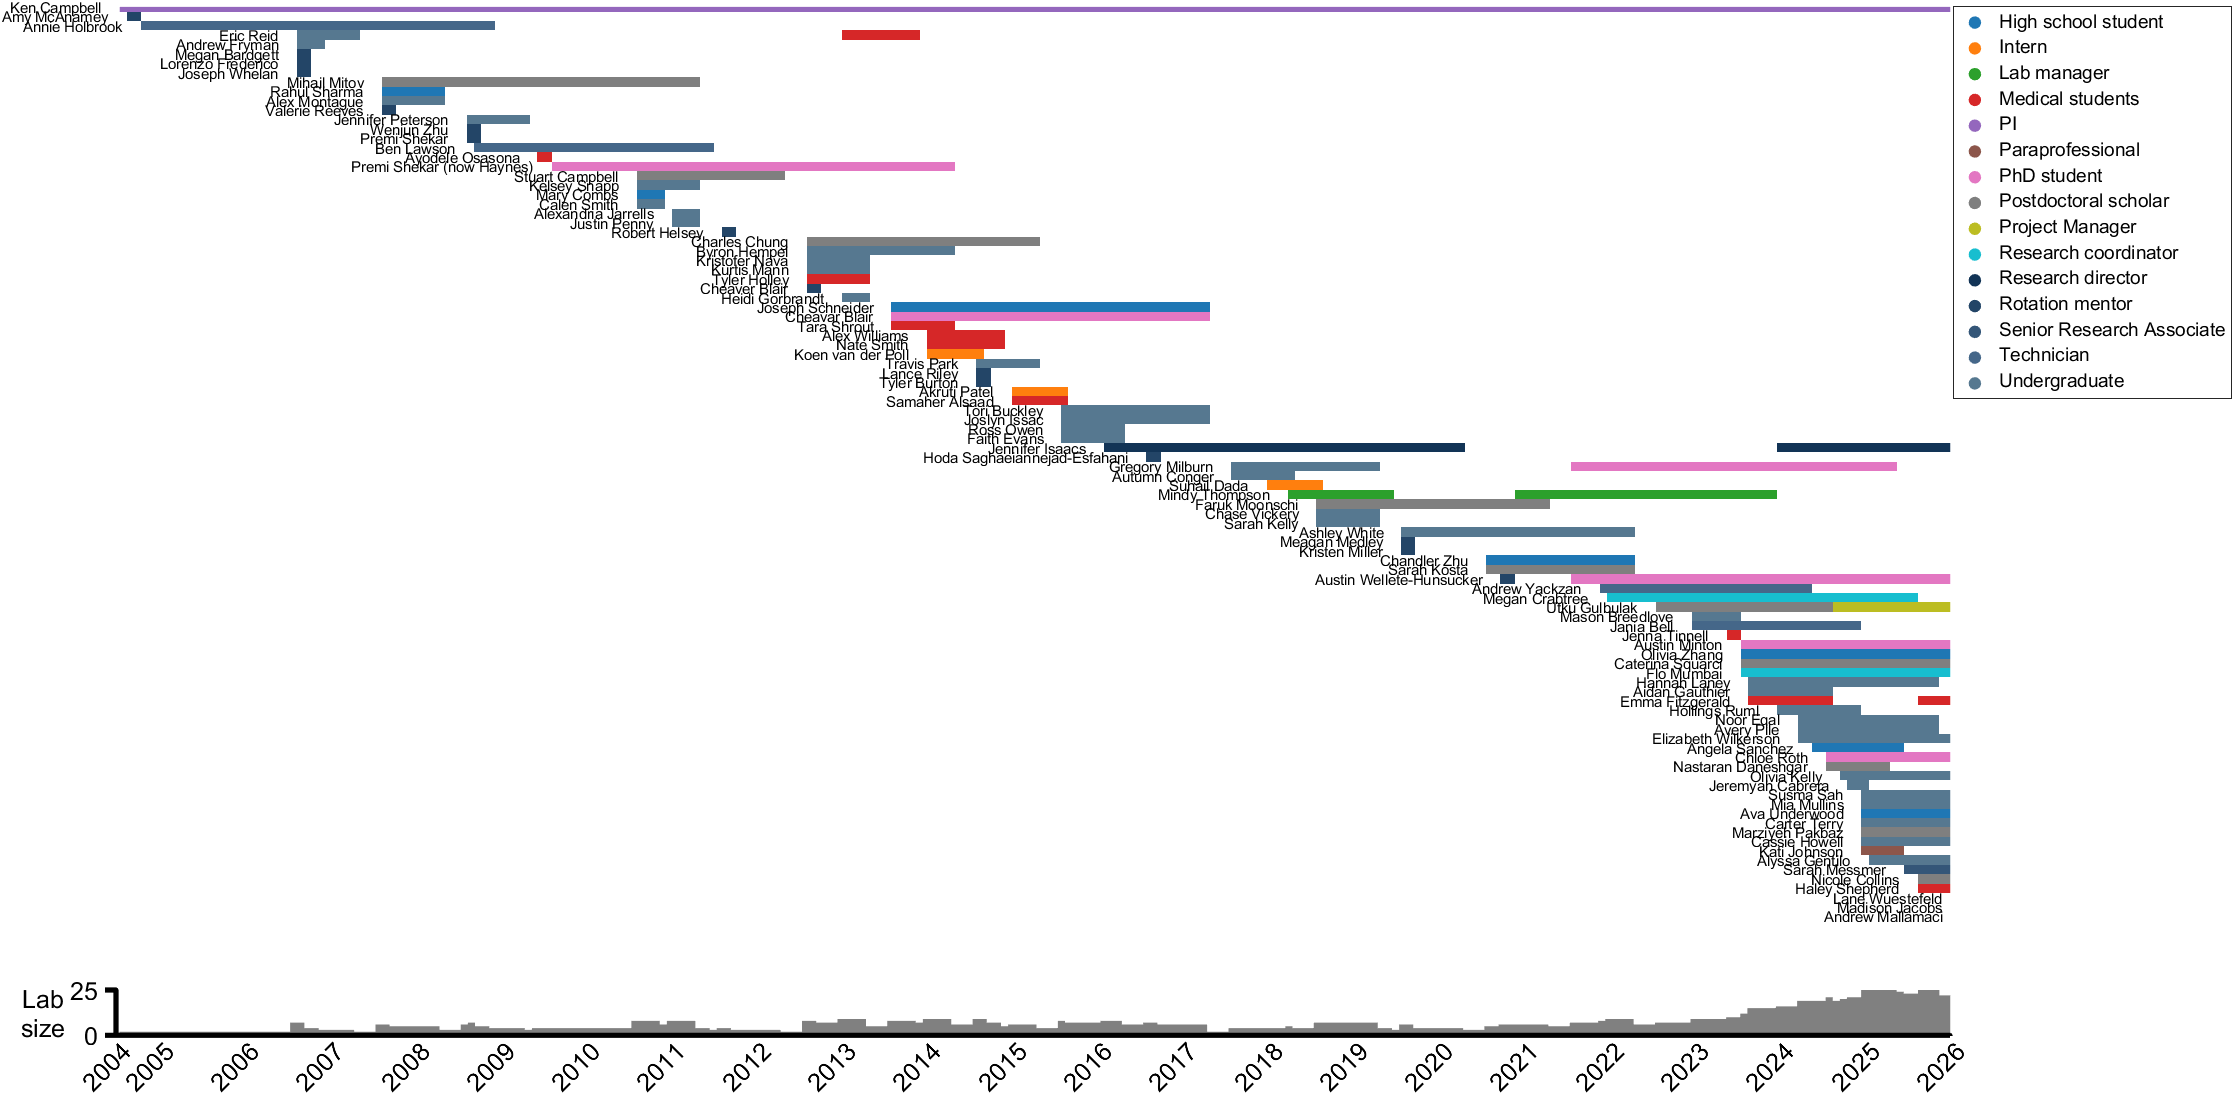
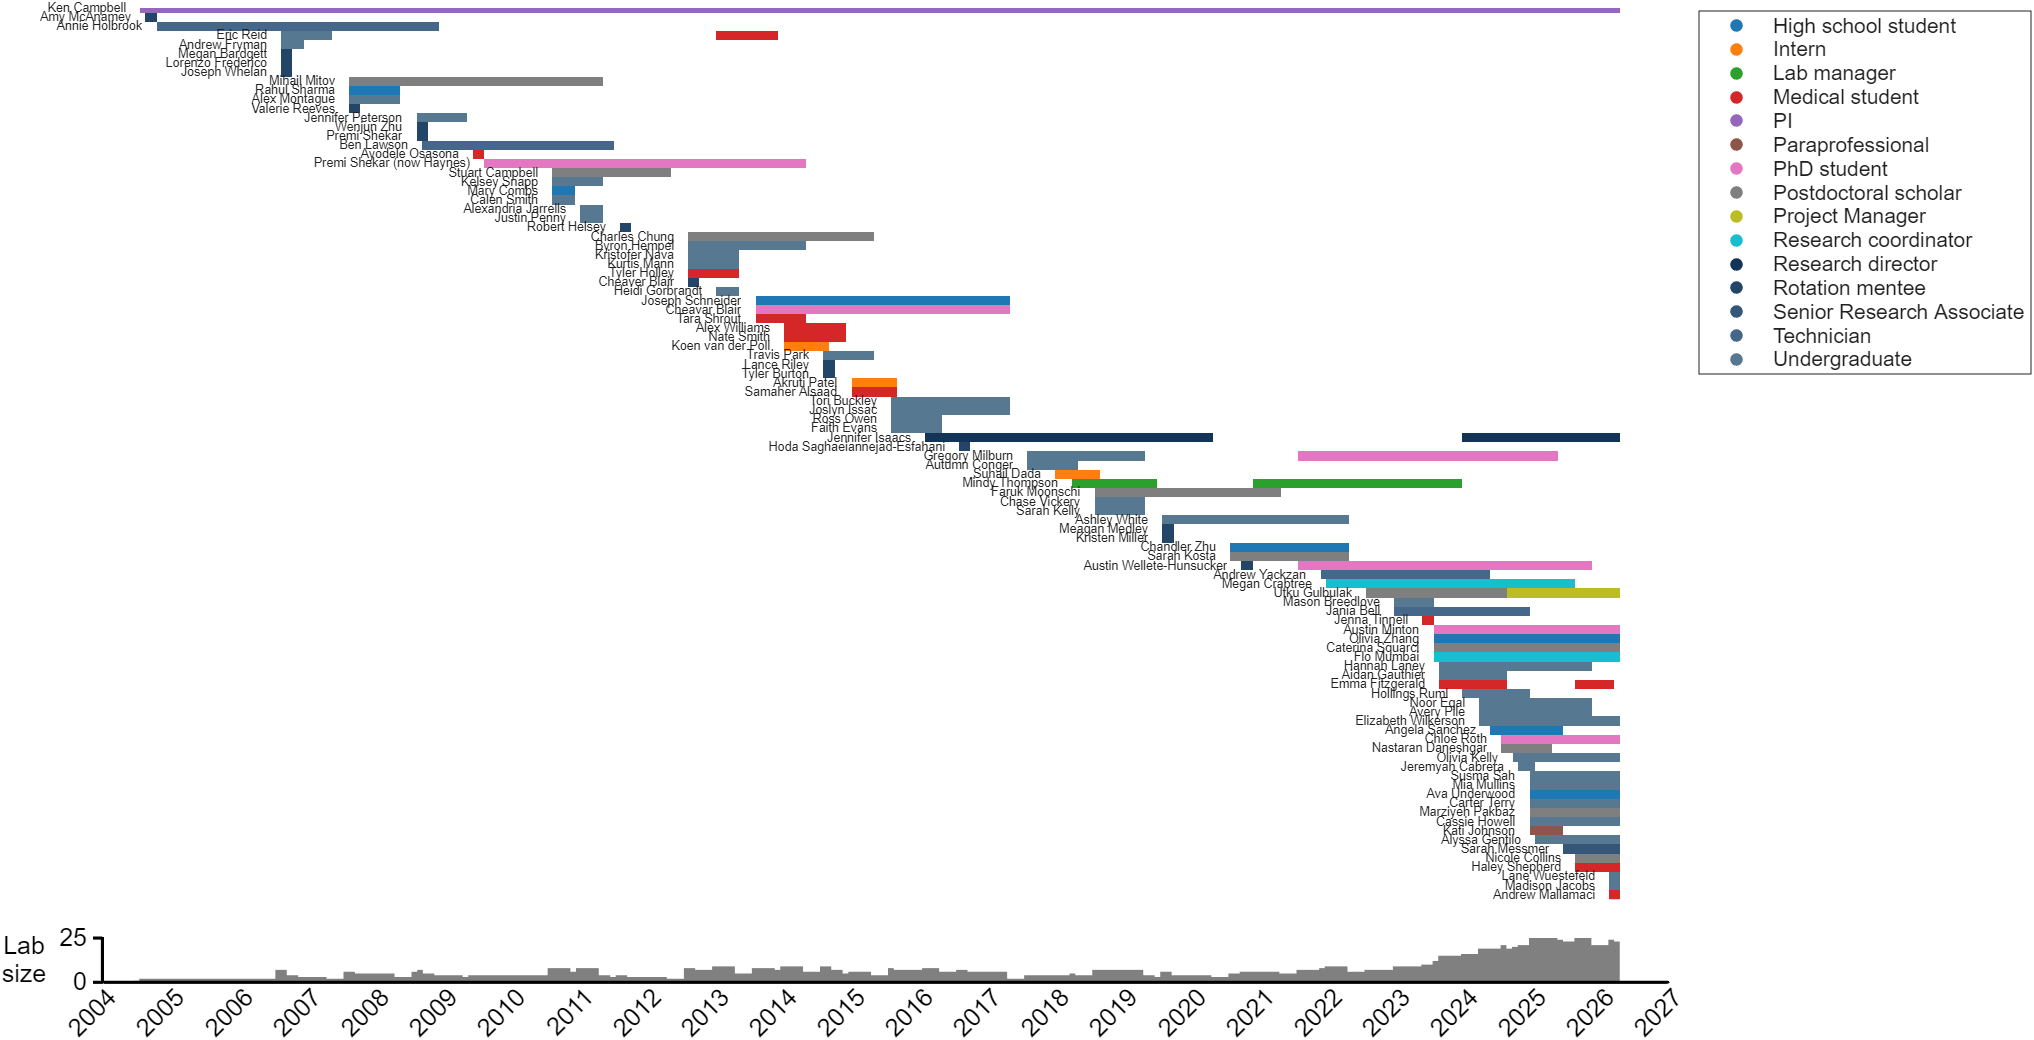
Tweaks to figure and data file

Changed region(s): [[0.0, 0.0, 1.0, 0.8615], [0.0, 0.8923, 0.8982, 1.0]]

diff --git a/MATLAB_code/create_lab_personnel_chart.m b/MATLAB_code/create_lab_personnel_chart.m
@@ -4,14 +4,13 @@ addpath(genpath('../../MATLAB_Utilities'))
 data_file_string = '../data/lab_personnel_timeline.xlsx';
 output_file_string = '../output/lab_timeline.png';
 
-
 % Code
 d = readtable(data_file_string)
 
 % Get date range
 today = datetime('now')
-end_date = datetime('Jul-2026');
-begin_date = min(d.Start)
+begin_date = dateshift(min(d.Start), 'start', 'year')
+end_date = dateshift(today, 'start', 'year', 'next')
 month_span = calmonths(between(begin_date, end_date))
 
 % Sort table
@@ -51,7 +50,7 @@ for i = 1 : numel(unique_names)
         end
     
         % Deduce row_pos
-        row_pos = numel(unique_names) - i + 1
+        row_pos = numel(unique_names) - i + 1;
 
         % Deduce color
         vi2 = find(strcmp(d.Role{vi_name(j)}, unique_roles));
@@ -69,26 +68,21 @@ for i = 1 : numel(unique_names)
 end
 
 % Make the figure
-sp = initialise_publication_quality_figure( ...
-        'no_of_panels_wide', 1, ...
-        'no_of_panels_high', 2, ...
-        'x_to_y_axes_ratio', 2, ...
-        'axes_padding_left', 1.5, ...
-        'axes_padding_right', 2.2, ...
-        'right_margin', -8, ...
-        'panel_label_font_size', 0, ...
-        'relative_row_heights', [1, 0.05], ...
-        'axes_padding_bottom', 0.2, ...
-        'axes_padding_top', 0.2, ...
-        'bottom_margin', 0.5);
+sp = layout_subplots( ...
+        figure_width = 14, ...
+        panels_high = 2, ...
+        x_to_y_ratio = 1.75, ...
+        relative_row_heights = [1 0.05], ...
+        padding_left = 1, ...
+        padding_right = 2.5, ...
+        padding_bottom = [0 0.5], ...
+        panel_label = false);
 
 subplot(sp(1));
 image(im);
 
 x_ticks = 1 : 12 : size(im, 2) + 1;
-x_ticks(2:end) = x_ticks(2:end) - 6; % First month is July so it counts 1 year from July-July which makes the display not pretty
-
-
+% x_ticks(2:end) = x_ticks(2:end) - 6; % First month is July so it counts 1 year from July-July which makes the display not pretty
 
 current_roster = sum(isnat(d.Stop))
 
@@ -96,7 +90,6 @@ y_ticks = 1 : size(im,1);
 
 x_tick_labels = cellstr(datestr(begin_date + calmonths(x_ticks-1), ...
         'YYYY'))
-
 
 improve_axes( ...
     'x_axis_offset', 0, ...
@@ -120,13 +113,13 @@ improve_axes( ...
 
 % Add labels
 for r = 1 : size(im, 1)
-    lhs = find(im(r, :, 2) < 1, 1, 'first')
+    lhs = find(im(r, :, 2) < 1, 1, 'first');
     if (isempty(lhs))
         lhs = 100
     end
     text(lhs-3, r, y_tick_labels{r}, ...
         'HorizontalAlignment', 'right', ...
-        'FontSize', 7);
+        'FontSize', 6);
 end
 
 for i = 1 : numel(unique_roles)
@@ -134,11 +127,9 @@ for i = 1 : numel(unique_roles)
         'MarkerFaceColor', color_map(i,:));
 end
 
-legendflex(h, unique_roles, ...
-    'anchor', {'ne', 'nw'}, ...
-    'buffer', [2, 0], ...
-    'padding', [2,4,4], ...
-    'xscale', 0.5)
+legend_uktcvr(h, unique_roles, ...
+    legend_position = [1.02 1], ...
+    FontSize = 10)
 
 subplot(sp(2));
 n = sum(im(:,:,1)<1, 1);
@@ -159,7 +150,7 @@ improve_axes( ...
     'y_ticks',y_ticks,...
     'x_axis_label', '', ...
     'y_axis_offset', 0, ...
-    'y_label_offset', -0.04, ...
+    'y_label_offset', -0.05, ...
     'y_tick_length', 0.006, ...
     'y_tick_decimal_places', 0, ...
     'y_tick_label_horizontal_offset', -0.01, ...
